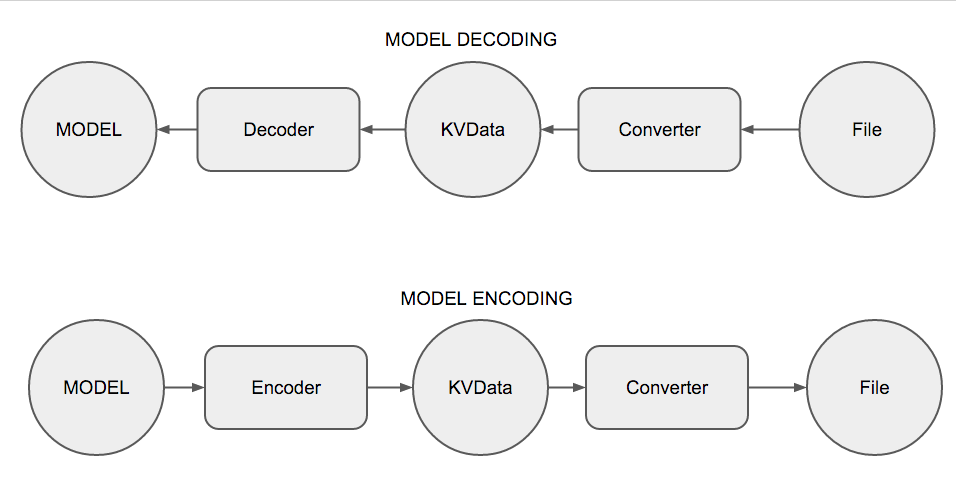
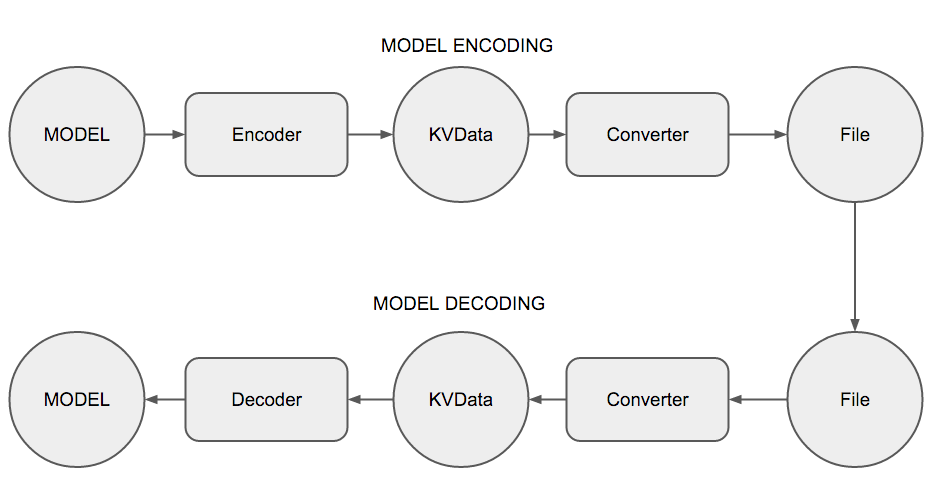
Doc update

diff --git a/README.md b/README.md
@@ -82,7 +82,9 @@ model.save(.Plist, path: "model.plist")
 let model = ModelType(.Plist, path: "model.plist")
 ```
 
-## How it works
+## General Design Philosophy 
+The encoding and decoding process is decoupled from the data conversion format. All models are encoded and decoded to an intermediate Key-Value dictionary. The Key-Value data is then either decoded into a model, or converted to a target format (bin, plist, json).
+![<Protocol Oriented>](Docs/Resources/diag1.png)
 
 ![<Protocol Oriented>](Docs/Resources/diag4.png)
 # [ Read the Documentation to Get Started](Docs/)
